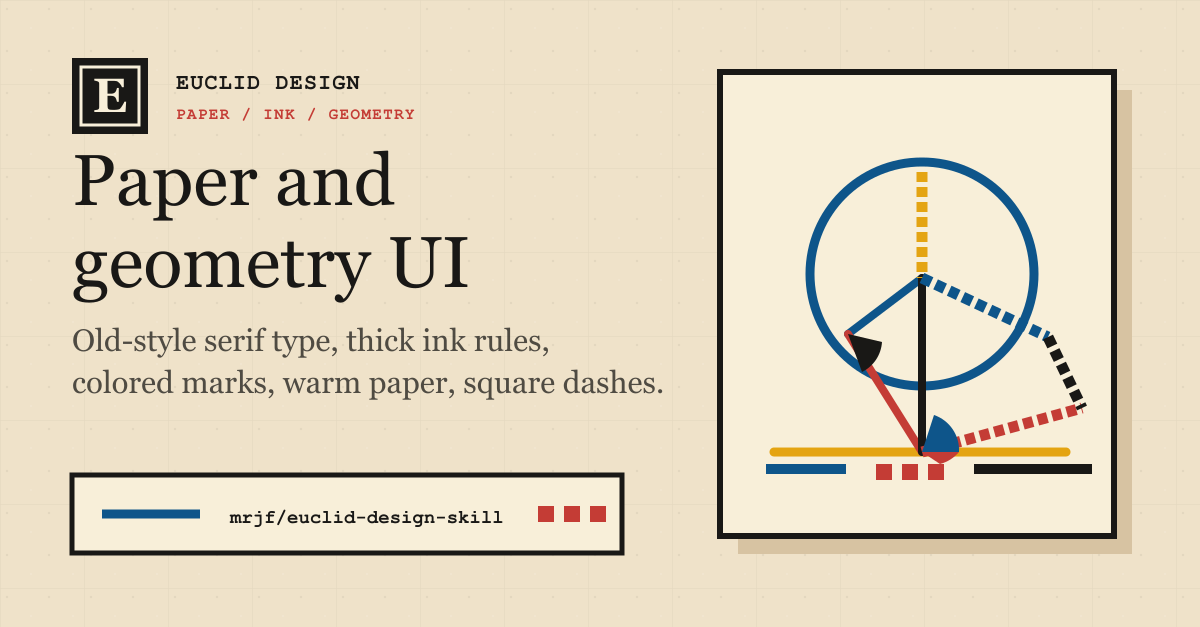
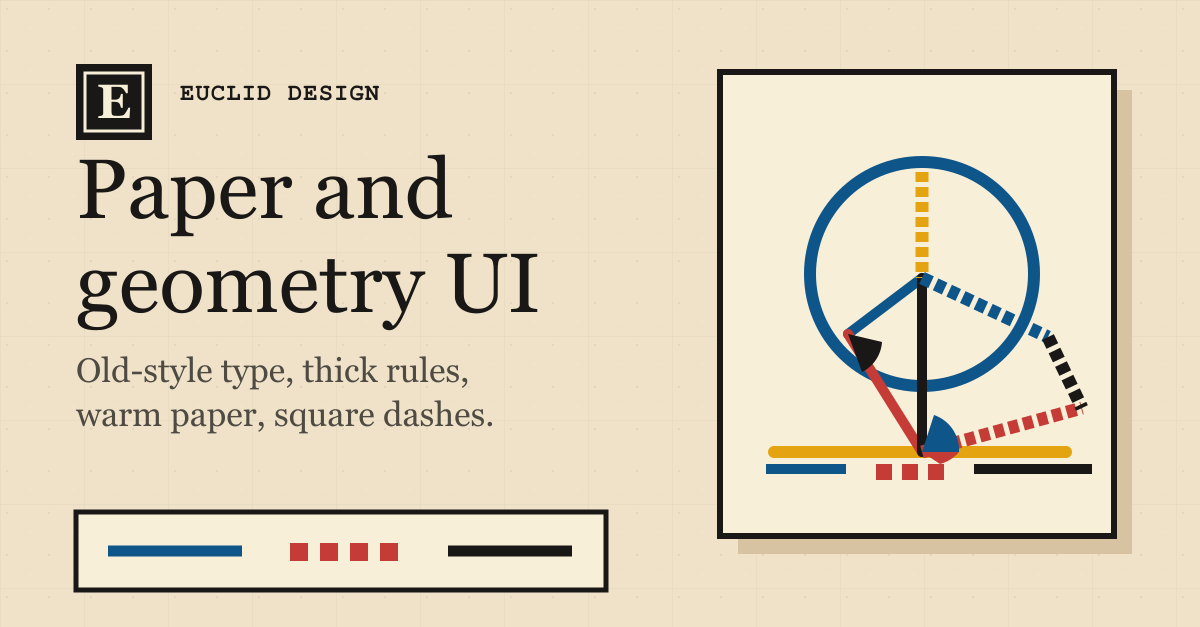
Use high-resolution social preview image

diff --git a/assets/static-site/index.html b/assets/static-site/index.html
@@ -10,16 +10,16 @@
     <meta property="og:title" content="Euclid Design System">
     <meta property="og:description" content="A paper-and-geometry UI design system with old-style serif type, thick ink rules, colored marks, warm paper, and square dashed lines.">
     <meta property="og:url" content="https://euclid.hhh.hm/">
-    <meta property="og:image" content="https://euclid.hhh.hm/og-image-v2.png">
-    <meta property="og:image:secure_url" content="https://euclid.hhh.hm/og-image-v2.png">
-    <meta property="og:image:type" content="image/png">
-    <meta property="og:image:width" content="1200">
-    <meta property="og:image:height" content="627">
+    <meta property="og:image" content="https://euclid.hhh.hm/og-image-v3.jpg">
+    <meta property="og:image:secure_url" content="https://euclid.hhh.hm/og-image-v3.jpg">
+    <meta property="og:image:type" content="image/jpeg">
+    <meta property="og:image:width" content="2400">
+    <meta property="og:image:height" content="1254">
     <meta property="og:image:alt" content="Euclid Design System preview with warm paper, serif type, thick ink rules, colored geometry, and square dashed lines.">
     <meta name="twitter:card" content="summary_large_image">
     <meta name="twitter:title" content="Euclid Design System">
     <meta name="twitter:description" content="A paper-and-geometry UI design system with old-style serif type, thick ink rules, colored marks, warm paper, and square dashed lines.">
-    <meta name="twitter:image" content="https://euclid.hhh.hm/og-image-v2.png">
+    <meta name="twitter:image" content="https://euclid.hhh.hm/og-image-v3.jpg">
     <link rel="stylesheet" href="styles.css?v=41">
   </head>
   <body>